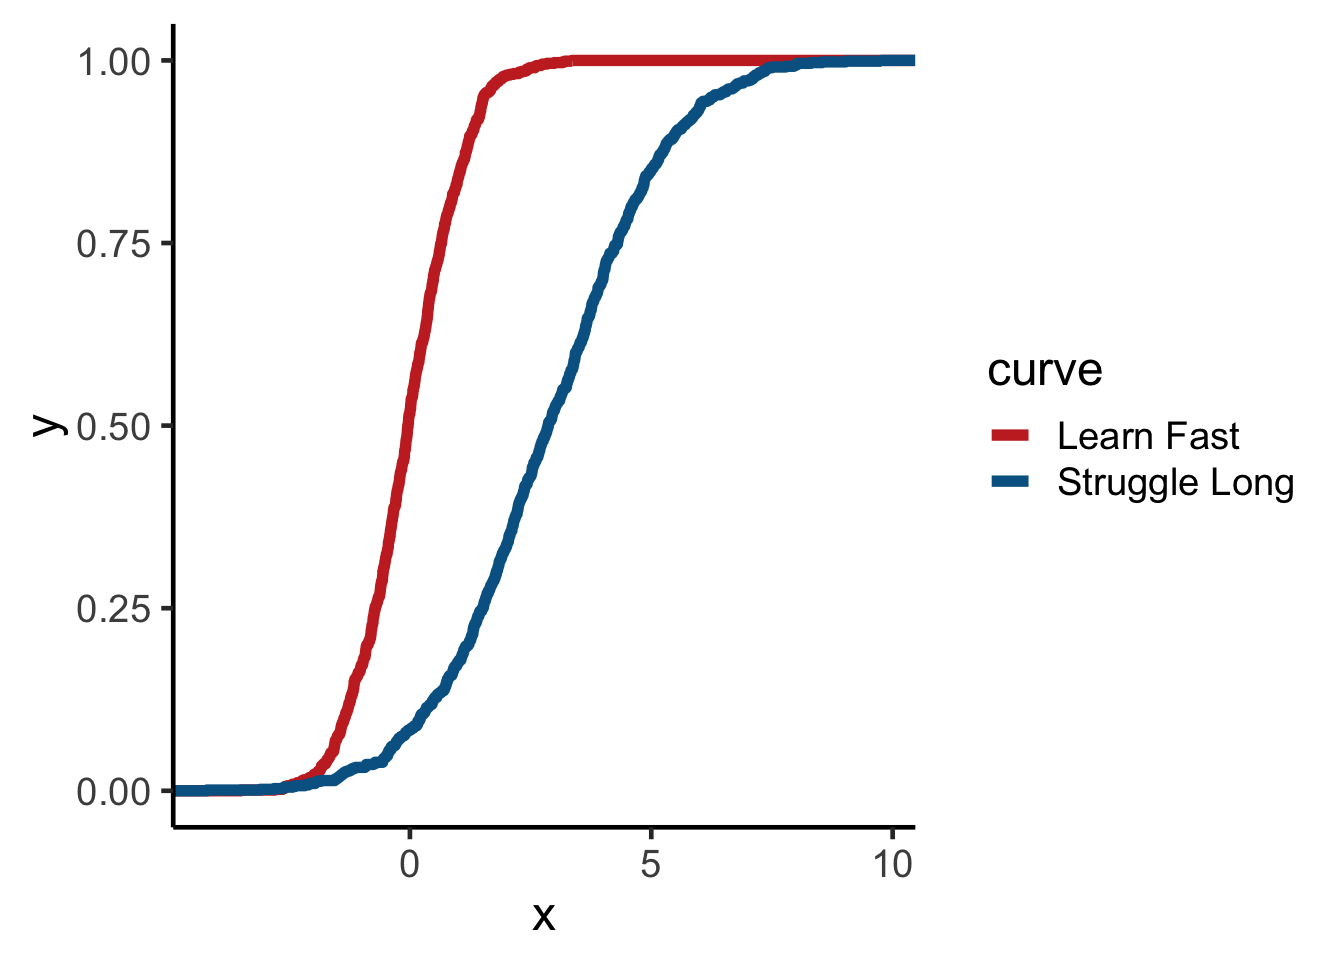
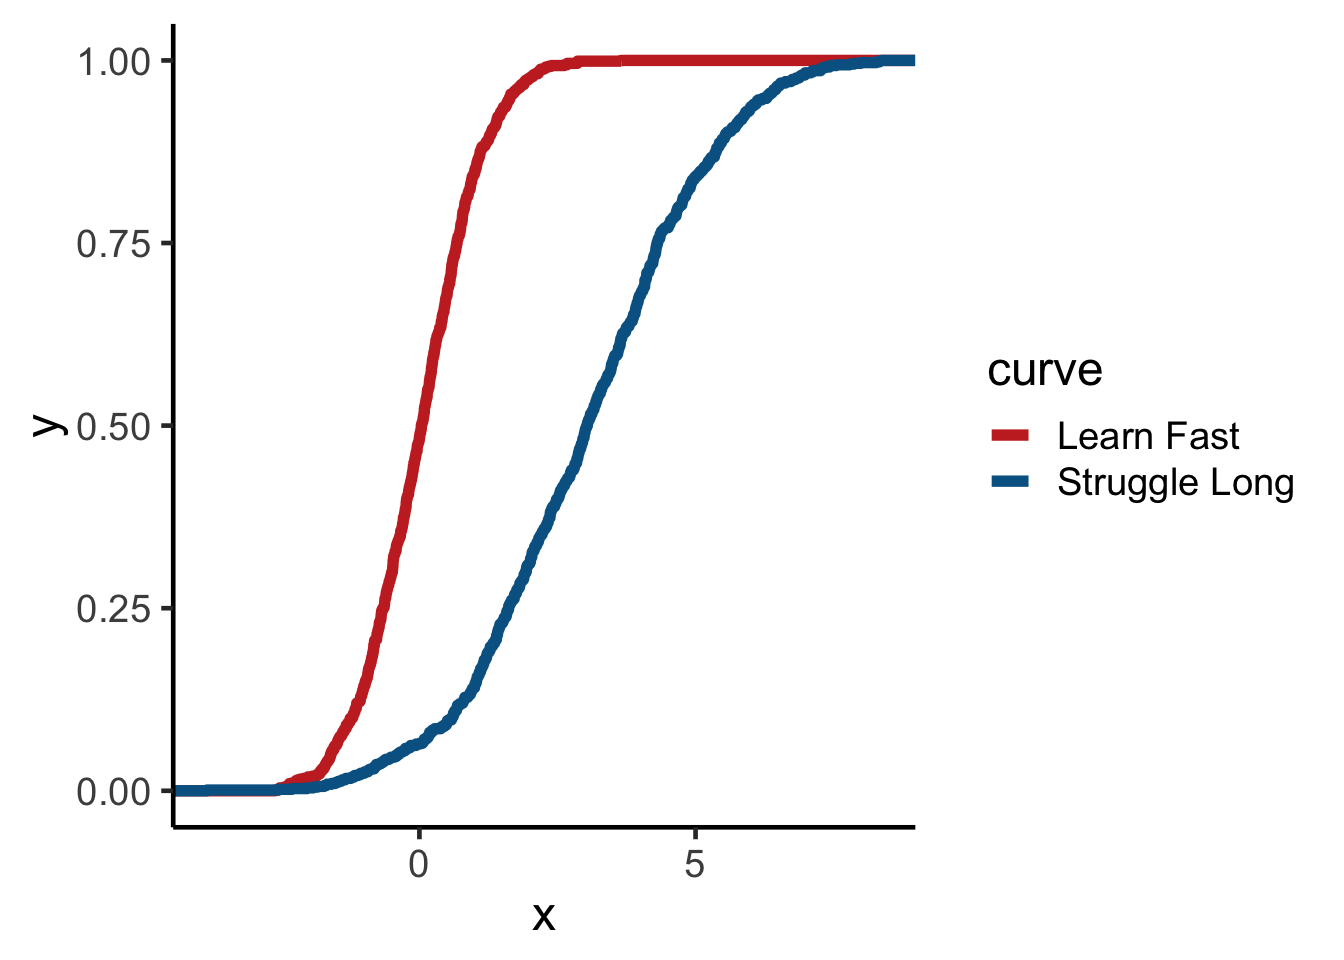
fixed alignment

diff --git a/public/2019/01/23/my-favorite-kathy-sierra-plot/index.html b/public/2019/01/23/my-favorite-kathy-sierra-plot/index.html
@@ -255,7 +255,6 @@
 
 <p>One of my favorite graphs of all time is this one from Kathy Sierra:</p>
 <div class="image_shadow">
-<pre><code>## Warning: package &#39;tibble&#39; was built under R version 3.5.2</code></pre>
 <div class="figure"><span id="fig:g1"></span>
 <img src="https://cerebralmastication.com/images/kathy_sierra_graph.jpg" alt="Kick Ass Threshold" width="75%" />
 <p class="caption">
@@ -304,7 +303,7 @@ p</code></pre>
              linetype = 2) +
   annotate(
     &quot;text&quot;,
-    x = -2.2,
+    x = -2.4,
     y = .29,
     label = &quot;Suck Threshold&quot;,
     size = 5
@@ -314,7 +313,7 @@ p</code></pre>
              linetype = 2) +
   annotate(
     &quot;text&quot;,
-    x = -1.9 ,
+    x = -2. ,
     y = .79,
     label = &quot;Kick Ass Threshold&quot;,
     size = 5

diff --git a/content/post/2019-01-23-my-favorite-kathy-sierra-plot.html b/content/post/2019-01-23-my-favorite-kathy-sierra-plot.html
@@ -13,7 +13,6 @@ tags:
 
 <p>One of my favorite graphs of all time is this one from Kathy Sierra:</p>
 <div class="image_shadow">
-<pre><code>## Warning: package &#39;tibble&#39; was built under R version 3.5.2</code></pre>
 <div class="figure"><span id="fig:g1"></span>
 <img src="/images/kathy_sierra_graph.jpg" alt="Kick Ass Threshold" width="75%" />
 <p class="caption">
@@ -62,7 +61,7 @@ p</code></pre>
              linetype = 2) +
   annotate(
     &quot;text&quot;,
-    x = -2.2,
+    x = -2.4,
     y = .29,
     label = &quot;Suck Threshold&quot;,
     size = 5
@@ -72,7 +71,7 @@ p</code></pre>
              linetype = 2) +
   annotate(
     &quot;text&quot;,
-    x = -1.9 ,
+    x = -2. ,
     y = .79,
     label = &quot;Kick Ass Threshold&quot;,
     size = 5

diff --git a/public/index.html b/public/index.html
@@ -265,7 +265,7 @@
 
   <p>
   One of my favorite graphs of all time is this one from Kathy Sierra:
-## Warning: package &#39;tibble&#39; was built under R version 3.5.2  Figure 1: Kick Ass Threshold   I used that in my RStudio::conf(2019) presentation in Austin last week. I’m working on a related prez and I decided to create my own version of Kathy’s chart using R.
+ Figure 1: Kick Ass Threshold   I used that in my RStudio::conf(2019) presentation in Austin last week. I’m working on a related prez and I decided to create my own version of Kathy’s chart using R.
 I played around with some simulations and found that the cumulative t and normal distributions gave good curves if I fiddled with their parameters.
   </p>
 

diff --git a/public/tags/plotting/index.html b/public/tags/plotting/index.html
@@ -264,7 +264,7 @@
 
   <p>
   One of my favorite graphs of all time is this one from Kathy Sierra:
-## Warning: package &#39;tibble&#39; was built under R version 3.5.2  Figure 1: Kick Ass Threshold   I used that in my RStudio::conf(2019) presentation in Austin last week. I’m working on a related prez and I decided to create my own version of Kathy’s chart using R.
+ Figure 1: Kick Ass Threshold   I used that in my RStudio::conf(2019) presentation in Austin last week. I’m working on a related prez and I decided to create my own version of Kathy’s chart using R.
 I played around with some simulations and found that the cumulative t and normal distributions gave good curves if I fiddled with their parameters.
   </p>
 
